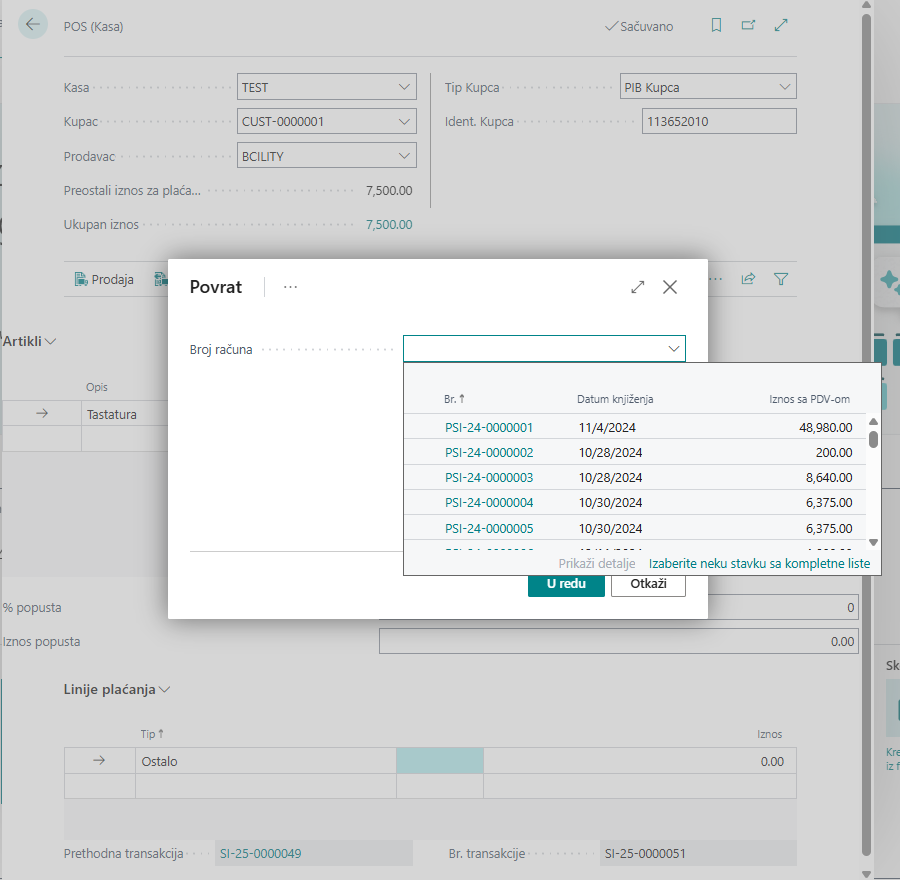
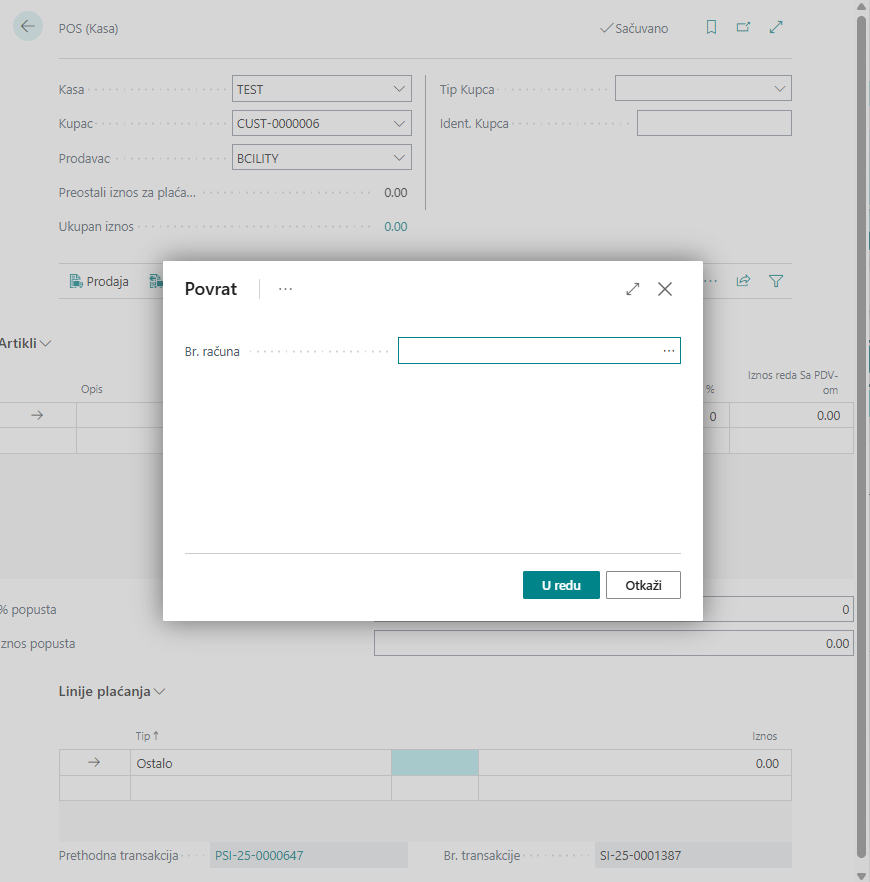
Pos-izmene

diff --git a/docs/sh/POS/POS-kasa.md b/docs/sh/POS/POS-kasa.md
@@ -64,7 +64,7 @@ Ukoliko imamo situaciju da želimo da neki deo iznosa platimo jednim tipom plać
 
 ### **1.3 Povrat arikala**
 
-Na linije artikala dodajemo artikal ili artikle za koje želimo da izvršimo povraćaj, a zatim izaberemo akciju *Povrat*.
+Na linije artikala dodajemo artikal ili artikle za koje želimo da izvršimo povraćaj, a zatim izaberemo akciju *Povrat*. Takođe, možemo odabrati akciju *Povrat* iako nemamo dodat proizvod na liniju artikala, u tom slučaju će nam se otvoriti prozor sa izlistanim svim izdatim računima.
 
 ![pos](../assets/POS/pos21.png)
 
@@ -72,7 +72,11 @@ Odabirom akcije otvara se prozor
 
 ![pos](../assets/POS/pos22.png)
 
-Odabirom računa na kom je taj artikal ištampaće se račun refundacije.
+Pokretanjem akcije *Br. računa* (...), otvara se prozor gde možemo pronaći sve račune, ili sve račune na kojima se nalazi odabrani artikal.
+
+![pos](../assets/POS/pos28.png)
+
+Odabirom računa na kom je željeni artikal ištampaće se račun refundacije.
 
 ### **1.4 Linija akcija**
 
